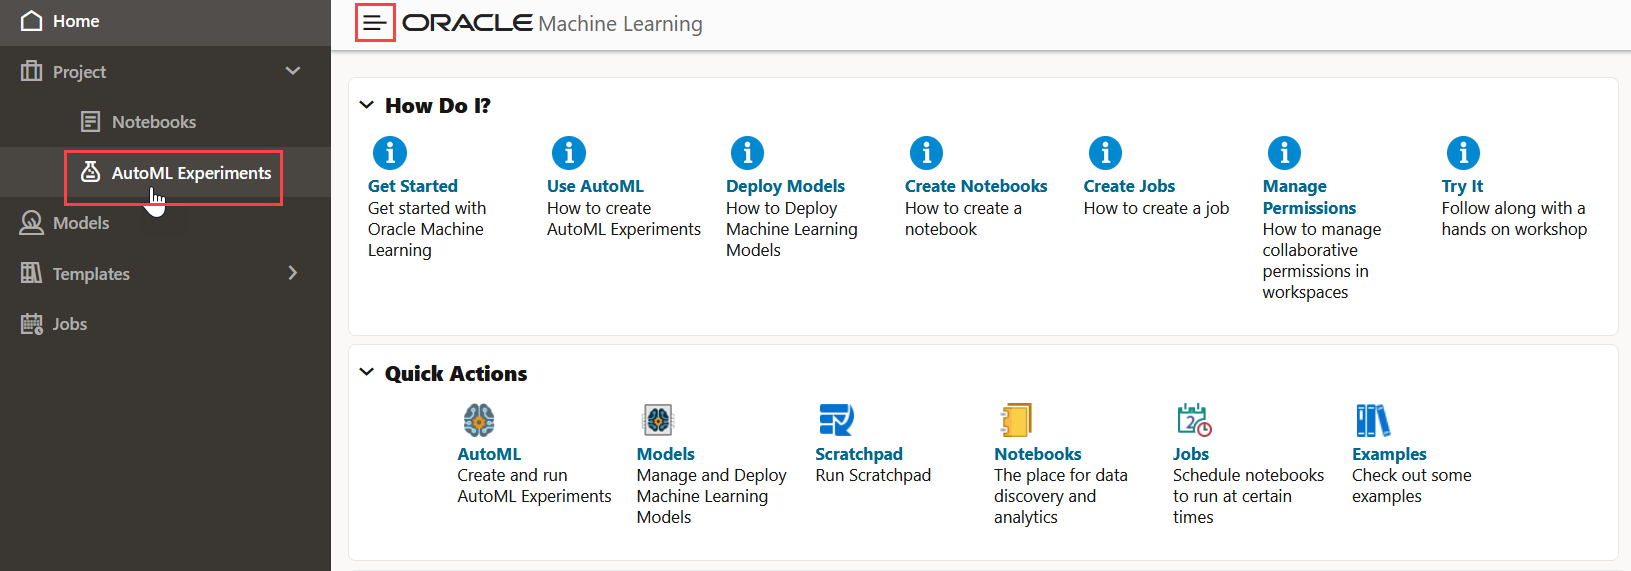
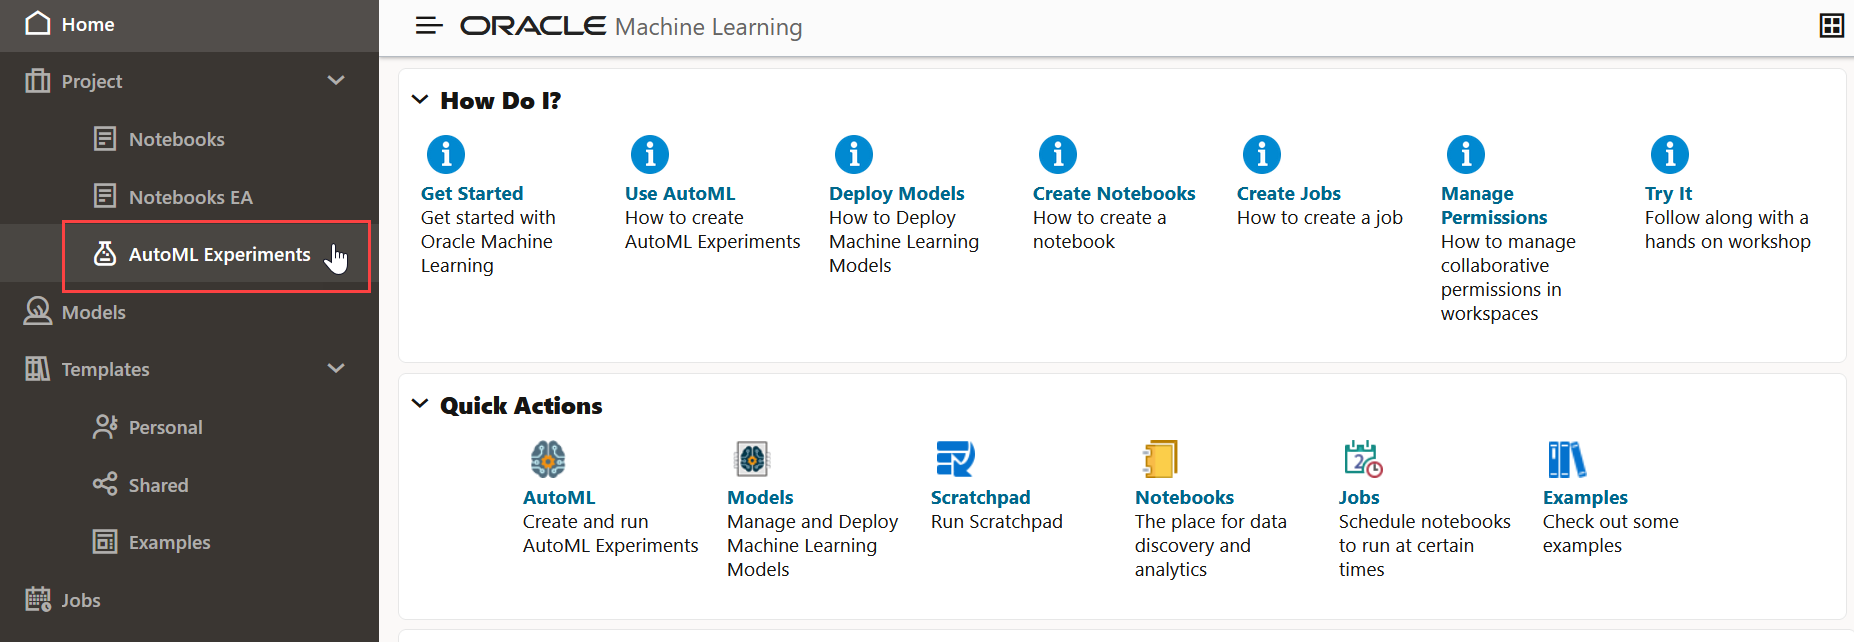
PR request for oml-fun-adb (#7401)  (#32)
oml-fun-adb (#7401) Self QA

Link to Notebook EA added.

diff --git a/oml-fun-on-adb/omlpy/omlpy.md b/oml-fun-on-adb/omlpy/omlpy.md
@@ -146,7 +146,7 @@ To use OML4Py, you must first import the `oml` module and the Pandas library. Us
 	</copy>
 	```
 	In this step, you are viewing a few rows from the SUPPLEMENTARY_DEMOGRAPHICS table using the overloaded `head()` function.
-	
+
 	![Top rows of DEMO.](images/rows-demo.png)
 
 ## Task 4: Explore the Data
@@ -232,7 +232,7 @@ In this step, you will create a `DEMO_DF` which is a new `oml.DataFrame` based o
 	![Top rows of DEMO_DF.](images/rows-demo-df.png)
 
 3. In this example, you are randomly splitting the `DEMO_DF` data with 60 percent of the records for the TRAIN data set and 40 percent for the TEST data set. The split method splits the data referenced by the `oml.DataFrame` proxy object `DEMO_DF` into two new `oml.DataFrame` proxy objects, TRAIN, and TEST.  
-   
+
    Furthermore the machine learning algorithms require the separation of the target column `Y` from the input columns `X`.  In this case the column `AFFINITY_CARD`, which indicates whether a person has accepted the offer (=1) or not (=0) in past marketing campaigns, is what we are trying to predict with the model for future campaigns, and it is used to further split the data.
 
 	```
@@ -274,18 +274,18 @@ Use the `oml.dt` class to build a Decision Tree model. You can build a model wit
 	The `oml.dt` class uses the Decision Tree algorithm for classification and a model object `dt_mod` is created with the default parameter settings.  The **fit** function builds the Decision Tree model according to the training data and parameter settings.
 
 
-	
+
 
 		Model Name: DT_CLAS_MODEL
- 
+
 		Model Owner: OMLUSER
- 
+
 		Algorithm Name: Decision Tree
- 
+
 		Mining Function: CLASSIFICATION
- 
+
 		Target: AFFINITY_CARD
- 
+
 		Settings:
     	                setting name            setting value
 		0                      ALGO_NAME       ALGO_DECISION_TREE
@@ -301,23 +301,23 @@ Use the `oml.dt` class to build a Decision Tree model. You can build a model wit
 		10        TREE_TERM_MINPCT_SPLIT                       .1
 		11         TREE_TERM_MINREC_NODE                       10
 		12        TREE_TERM_MINREC_SPLIT                       20
- 
+
 		Global Statistics:
   		attribute name  attribute value
 		0       NUM_ROWS             2725
- 
+
 		Attributes:
 		EDUCATION
 		HOME_THEATER_PACKAGE
-		HOUSEHOLD_SIZE	
+		HOUSEHOLD_SIZE
 		OCCUPATION
 		YRS_RESIDENCE
 		Y_BOX_GAMES
- 
+
 		Partition: NO
- 
+
 		Distributions:
- 
+
     	NODE_ID  TARGET_VALUE  TARGET_COUNT
 		0         0             0          2088
 		1         0             1           637
@@ -348,9 +348,9 @@ Use the `oml.dt` class to build a Decision Tree model. You can build a model wit
 		26       13             1             6
 		27       14             0           536
 		28       14             1            59
- 
+
 		Nodes:
- 
+
     	parent  node.id  row.count  prediction                                              split                                          surrogate                                        full.splits
 		0      0.0        1       1225           0                   (HOUSEHOLD_SIZE IN ("3" "4-5"))                          YRS_RESIDENCE >(3.5E+000))                    (HOUSEHOLD_SIZE IN ("3" "4-5"))
 		1      0.0        4       1500           0          (HOUSEHOLD_SIZE IN ("1" "2" "6-8" "9+"))                         YRS_RESIDENCE <=(3.5E+000))           (HOUSEHOLD_SIZE IN ("1" "2" "6-8" "9+"))
@@ -367,7 +367,7 @@ Use the `oml.dt` class to build a Decision Tree model. You can build a model wit
 		12     6.0       13        832           0                       (YRS_RESIDENCE <=(3.5E+000))                 HOME_THEATER_PACKAGE <=(5.0E-001))  (HOUSEHOLD_SIZE IN ("1" "2" "6-8" "9+")) AND (...
 		13     6.0       14        595           0                        (YRS_RESIDENCE >(3.5E+000))                  HOME_THEATER_PACKAGE >(5.0E-001))  (HOUSEHOLD_SIZE IN ("1" "2" "6-8" "9+")) AND (...
 		14     NaN        0       2725           0                                               None                                               None                                                  (
-	
+
 
 2. To specify model settings and build a Decision Tree model, run the following script :
 
@@ -424,11 +424,11 @@ To evaluate your model you need to score the test data using the model and then 
 	```
 
 2. To evaluate the model, we will pass a proxy `oml.Dataframe` containing predictions and the target columns to a new user-defined function named `evaluate_model` described below, that will produce typical model quality metrics.  
-   
-   For our classification example, you can evaluate your model using Confusion Matrix, Lift Chart, Gains Chart, and ROC curve chart. The Confusion Matrix displays the number of correct and incorrect predictions made with respect to the actual classification in the test data.  It is an **n**-by-**n** matrix where **n** is the number of classes. 
-   
-   A lift chart applies only to binary classifications requiring the designation of the positive class, and it measures the degree to which the predictions of a classification model are better than randomly generated predictions. 
-   
+
+   For our classification example, you can evaluate your model using Confusion Matrix, Lift Chart, Gains Chart, and ROC curve chart. The Confusion Matrix displays the number of correct and incorrect predictions made with respect to the actual classification in the test data.  It is an **n**-by-**n** matrix where **n** is the number of classes.
+
+   A lift chart applies only to binary classifications requiring the designation of the positive class, and it measures the degree to which the predictions of a classification model are better than randomly generated predictions.
+
    The ROC curve also applies to binary classification and requires the designation of the positive class. These are metrics for comparing predicted and actual target values in a classification model, and the area under this curve is another very standard measure of model quality known as AUC (Area Under the Curve).
 
 	Here is a custom script to generate the metrics and charts as described above. Run the below script:
@@ -804,18 +804,18 @@ You can save the python objects you create in one python session and load them i
 	```
 
 	The output is similar to the following:
-	
+
 	![Illustration of a dictionary object containing the models name and value.](images/loaded-dictionaryobject-datastore.png)
-	
-	Also, the boolean input **to\_globals** is set to True by default. 
-	
+
+	Also, the boolean input **to\_globals** is set to True by default.
+
 	If **to\_globals=True** then the `oml.ds.load` loads the python object to the global workspace. If **to\_globals=False**, then the `oml.ds.load()` function returns a dictionary object containing the object's name and value.
-	
+
 	To learn more about how to use datastores to store python objects click this [link](https://docs.oracle.com/en/database/oracle/machine-learning/oml4py/1/mlpug/save-python-objects-in-database.html#GUID-C02396D1-2B30-47A0-AE27-37B123E15710).
 
-In this example, you classified customers who are most likely to be positive responders to an Affinity Card loyal program. You built and applied a classification decision tree model using the Sales history (SH) schema data. 
+In this example, you classified customers who are most likely to be positive responders to an Affinity Card loyal program. You built and applied a classification decision tree model using the Sales history (SH) schema data.
 
-You were also able to successfully evaluate the quality of the model using various metrics, and identify the top attributes that explains each customer prediction.  You also learned how to store and retrieve Python objects from the OML Python Data Store. 
+You were also able to successfully evaluate the quality of the model using various metrics, and identify the top attributes that explains each customer prediction.  You also learned how to store and retrieve Python objects from the OML Python Data Store.
 You may now **proceed to the next lab**.
 
 ## Learn More
@@ -831,7 +831,7 @@ OML4Py enables data scientists to hand-off their user-defined Python functions t
 	1. Prepare the Demo data and then rank the classification algorithms from the set of algorithms supported by AutoML using automatic algorithm selection.
 	![The images shows how to prepare the demo data and rank the classification with the help of AutoML.](images/automl-algorithm-selections.png)
 	2. Identify the most relevant feature subset using automatic feature selection.
-	![It shows how AutoMl can be used for selection of relevant features.](images/automl-subset-feature-selection.png)
+	![It shows how AutoML can be used for selection of relevant features.](images/automl-subset-feature-selection.png)
 	3. Finally tune the hyperparameters for the selected classification algorithm and features using automatic model tuning.
 	![The image shows how to fine tune hyperparameters with help of AutoML](images/automl-hyperparameter-tuning.png)
 
@@ -841,4 +841,4 @@ OML4Py enables data scientists to hand-off their user-defined Python functions t
 
 * **Authors** - Sarika Surampudi, Senior User Assistance Developer, Oracle Database User Assistance Development; Dhanish Kumar, Member of Technical Staff, User Assistance Developer.
 * **Contributors** -  Mark Hornick, Senior Director, Data Science and Machine Learning; Sherry LaMonica, Consulting Member of Tech Staff, Machine Learning; Marcos Arancibia, Senior Principal Product Manager, Machine Learning.
-* **Last Updated By/Date** - Marcos Arancibia, March 2023
+* **Last Updated By/Date** - Moitreyee Hazarika, June 2023

diff --git a/oml-fun-on-adb/automl/automl.md b/oml-fun-on-adb/automl/automl.md
@@ -40,7 +40,7 @@ To access AutoML UI, you must sign into the Oracle Machine Learning User Interfa
 
 	![home page](images/homepage-automl.png)
 
-	Alternatively, you can click the hamburger icon ![hamburger icon](images/hamburger.png) on the top left corner of the home page to open the left navigation menu. Click **AutoML**. This opens the AutoML Experiments page.
+	Alternatively, you can click the hamburger icon ![hamburger icon](images/hamburger.png) on the top left corner of the home page to open the left navigation menu. Click **AutoML Experiments**. This opens the AutoML Experiments page.
 
 	![home page](images/hamburger-automl-homepage.png)
 
@@ -49,11 +49,11 @@ To access AutoML UI, you must sign into the Oracle Machine Learning User Interfa
 An Experiment is as a work unit that contains the definition of data source, prediction target, and prediction type along with optional settings. After an Experiment runs successfully, it presents you a list of machine learning models in the leader board. You can select any model for deployment, or use it to create a notebook based on the selected model.
 When creating an Experiment, you must define the data source and the target of the experiment.
 
-When creating an experiment, you must specify the data source and the target of the experiment. An AutoML experiment can process columns with data type ``VARCHAR2`` greater than 4K , ``CHAR``, ``CLOB``, ``BLOB``, and ``BFILE`` as text. Note that columns with data type ``VARCHAR2`` less than 4K are considered as categorical. 
+When creating an experiment, you must specify the data source and the target of the experiment. An AutoML experiment can process columns with data type ``VARCHAR2`` greater than 4K , ``CHAR``, ``CLOB``, ``BLOB``, and ``BFILE`` as text. Note that columns with data type ``VARCHAR2`` less than 4K are considered as categorical.
 
 To create an Experiment:
 
-1. Click **AutoML** on your Oracle Machine Learning home page. Alternatively, you can go to the left navigation menu at the upper left corner of the page and click AutoML. The AutoML Experiments page opens.
+1. Click **AutoML** on your Oracle Machine Learning home page. Alternatively, you can go to the left navigation menu at the upper left corner of the page and click **AutoML Experiments**. The AutoML Experiments page opens.
 
 	![home page](images/homepage-automl.png)
 
@@ -113,7 +113,7 @@ When an experiment starts running, the status is displayed in a progress bar. Wh
 
 The Leader Board displays the top performing models relative to the model metric selected along with the algorithm and accuracy. Here,  you will view the additional metrics Precision, Recall, ROC AUC for the models:
 
-14. Scroll down the Customer 360 experiments page to view the Leader Board section. The top three algorithms for this experiment are Naive Bayes, Random Forest and Support Vector Machine (Linear).
+14. Scroll down the Customer 360 experiments page to view the Leader Board section. The top three algorithms for this experiment are Naïve Bayes, Random Forest and Support Vector Machine (Linear).
 
 	>**Note:** Only when the experiment is completed, can you perform any of these actions listed here, including metrics 	selection.
 
@@ -135,7 +135,7 @@ The Leader Board displays the top performing models relative to the model metric
 
 17. Click on any row in the Leader Board to enable the options - **Deploy, Rename**, and **Create Notebook**. Note that these options are greyed out if you do not click on the rows.
 
-18. Click on the Naive Bayes model row (and not on the model), and then click **Rename**. In the Rename Model dialog, enter `NB_Customer360` to rename the auto generated model name for Naive Bayes. Click **OK**.  	
+18. Click on the Naïve Bayes model row (and not on the model), and then click **Rename**. In the Rename Model dialog, enter `NB_Customer360` to rename the auto generated model name for Naive Bayes. Click **OK**.  	
 
 	![Rename model](images/rename-model.png)
 
@@ -163,7 +163,7 @@ The Leader Board displays the top performing models relative to the model metric
 
 	![Go to Experiments page](images/goto_exp.png)
 
-	Alternatively, you can click the hamburger icon ![hamburger icon](images/hamburger.png) on the top left corner of the experiment page and click **AutoML** on the left navigation menu.
+	Alternatively, you can click the hamburger icon ![hamburger icon](images/hamburger.png) on the top left corner of the experiment page and click **AutoML Experiments** on the left navigation menu.
 
 ## Task 3: Deploy Top Model to Oracle Machine Learning Services
 
@@ -173,7 +173,7 @@ When you deploy a model using the Oracle Machine Learning AutoML UI, you create 
 
 To deploy a model:  
 
-1. Go to the AutoML Experiments page by clicking the hamburger icon on the top left corner of the page. Click **AutoML** on the left navigation menu.  
+1. Go to the AutoML Experiments page by clicking the hamburger icon on the top left corner of the page. Click **AutoML Experiments** on the left navigation menu.  
 
 	![home page](images/hamburger-gen.png)
 
@@ -207,7 +207,7 @@ To deploy a model:
 
 	![Deploy Model option in Leader Board](images/model-deployed-message.png)
 
-This completes the task of deploying the top model Naive Bayes to Oracle Machine Learning Services.
+This completes the task of deploying the top model Naïve Bayes to Oracle Machine Learning Services.
 
 ## Task 4: View Oracle Machine Learning Models with Deployed Metadata and REST Endpoint
 
@@ -239,7 +239,7 @@ This completes the task of viewing the metadata of the deployed model, and its e
 
 You can create notebooks based on the top models produced in the experiment. This provides the code to build a model with the same settings for the selected model. This option is helpful if you want to use the code to re-create a similar machine learning model. To create a notebook:
 
-1. Click the hamburger icon ![hamburger icon](images/hamburger.png) on the top left corner of your page to open the left navigation menu, and click **AutoML**.
+1. Click the hamburger icon ![hamburger icon](images/hamburger.png) on the top left corner of your page to open the left navigation menu, and click **AutoML Experiments**.
 
 	![Experiments page](images/model-to-exp.png)
 
@@ -247,7 +247,7 @@ You can create notebooks based on the top models produced in the experiment. Thi
 
 	![Experiments page](images/open-customers-360.png)
 
-2. Scroll down to the Leader Board, click on the Naive Bayes model row. Clicking on a model row enables all the Leader Board options - Deploy, Rename, Create Notebooks, and Metrics. Click **Create Notebook**. The Create Notebook dialog opens.
+2. Scroll down to the Leader Board, click on the Naïve Bayes model row. Clicking on a model row enables all the Leader Board options - Deploy, Rename, Create Notebooks, and Metrics. Click **Create Notebook**. The Create Notebook dialog opens.
 
  	![Create Notebook option in Leader Board](images/create-notebook-lb.png)
 
@@ -273,9 +273,9 @@ To view the generated notebook Customer 360:
 
 2. The Notebooks page opens with all the notebooks listed in it. Click the **Customer 360 NB (1)** notebook to open it.
 
- 	<if type="livelabs"> ![Generated Notebook](images/notebooks-listed-final.png) </if>
+ 	<if type="livelabs"> ![Generated Notebook](images/notebooks-list-livelabs.png) </if>
 
-	<if type="freetier"> ![Generated Notebook](images/notebooks-5.png) </if>
+	<if type="freetier"> ![Generated Notebook](images/notebooks-list-freetier.png) </if>
 
 3. The generated notebook _Customer 360 NB (1)_  opens in the notebook editor. Click the gear icon on the upper right corner of the notebook to view and set the interpreter binding order.
 
@@ -327,4 +327,4 @@ You may now **proceed to the next lab**.
 
 * **Author** - Moitreyee Hazarika, Principal User Assistance Developer, Database User Assistance Development
 * **Contributors** -  Mark Hornick, Senior Director, Data Science and Machine Learning; Marcos Arancibia, Senior Principal Product Manager, Machine Learning; Sherry LaMonica, Consulting Member of Tech Staff, Machine Learning
-* **Last Updated By/Date** - Marcos Arancibia, March 2023
+* **Last Updated By/Date** - Moitreyee Hazarika, June 2023

diff --git a/oml-fun-on-adb/oml-notebooks/oml-notebooks.md b/oml-fun-on-adb/oml-notebooks/oml-notebooks.md
@@ -62,11 +62,11 @@ A notebook is a web-based interface for data analysis, data discovery, data visu
 
    ![Launch Workshop](images/launch-workshop.png)
 
-2. On the **Get Started - LiveLabs login** page, click **View Login Info** at the top left. 
+2. On the **Get Started - LiveLabs login** page, click **View Login Info** at the top left.
 
 	![ADB in OCI](images/get-started-page-livelabs.png)
 
-3. In the panel that opens with the **Reservation Information**, click at the bottom of the panel on the **OML Notebooks** link. 
+3. In the panel that opens with the **Reservation Information**, click at the bottom of the panel on the **OML Notebooks** link.
 
 	![ADB in OCI](images/livelabs-reservation-info.png)
 
@@ -86,6 +86,7 @@ To create a notebook:
 1. On the Oracle Machine Learning home page, click **Notebooks**. The Notebooks page opens. Alternatively, you can click the hamburger icon ![hamburger icon](images/hamburger.png) on the top left corner of the home page to open the left navigation menu. Click **Notebooks**.
 
 	![Notebooks option in hamburger](images/hamburger-notebooks.png)
+>> Note: Observe the new entry ** Notebooks EA** on the left navigation menu. To learn how to use Oracle Machine Learning Notebooks Early Adopter - an enhanced web-based notebook platform, refer to [Get Started with Notebooks Early Adopter](https://docs.oracle.com/en/database/oracle/machine-learning/oml-notebooks/omlug/get-started-notebooks-ea-data-analysis-and-data-visualization.html#GUID-B309C607-2232-43E2-B4A1-655DB295B90B).
 
 2. On the Notebooks page, click **Create**. The Create Notebook dialog opens.
 
@@ -315,7 +316,7 @@ This step demonstrates how to create the OML4Py Classification notebook based on
 
 	![Create Classification DT notebook from example template](images/create-notebook-classification.png)
 
-4. Once the notebook is created, the message _Notebook "OML4PY Classification DT (1)" created in project "OMLUSER Project"_ is displayed, as shown in the screenshot. The notebook is now available in the Notebooks page.
+4. Once the notebook is created, the message _Notebook "OML4PY Classification DT (1)" created in project "OMLUSER Project"_ is displayed, as shown in the screenshot. The notebook is now available on the Notebooks page. You may also click **Open Notebook** in the message dialog to open the notebook directly from here.
 
 	![Create notebook message](images/notebook-created-message.png)
 
@@ -349,7 +350,7 @@ These steps demonstrate how to create the Time Series notebook based on the Exam
 
 	![Create Time Series notebook from example template](images/create-notebook-time-series.png)
 
-10. Once the notebook is created, the message _Notebook "OML4SQL Time Series ESM (1)" created in project "OMLUSER Project"_ is displayed. The notebook is now available in the Notebooks page.
+10. Once the notebook is created, the message _Notebook "OML4SQL Time Series ESM (1)" created in project "OMLUSER Project"_ is displayed. The notebook is now available on the Notebooks page. You may also click **Open Notebook** in the message dialog to open the notebook directly from here.
 
 	![Time Series notebook message](images/esm-notebook-message.png)
 
@@ -477,4 +478,4 @@ This completes the task of creating a job. You may now **proceed to the next lab
 
 * **Author** -  Moitreyee Hazarika, Principal User Assistance Developer, Database User Assistance Development
 * **Contributors** -   Mark Hornick, Senior Director, Data Science and Machine Learning; Marcos Arancibia Coddou, Product Manager, Oracle Data Science; Sherry LaMonica, Consulting Member of Tech Staff, Machine Learning
-* **Last Updated By/Date** - Marcos Arancibia, March 2023
+* **Last Updated By/Date** - Moitreyee Hazarika, June 2023

diff --git a/oml-fun-on-adb/omlserv/omlserv.md b/oml-fun-on-adb/omlserv/omlserv.md
@@ -58,9 +58,11 @@ This lab assumes you have:
    Here is the syntax:
 
      ```
+     <copy>
      curl -X POST --header 'Content-Type: application/json' --header 'Accept: application/json'\
      -d '{"grant_type":"password", "username":"'${oml_username}'", "password":"'${oml_password}'"}'\
      "<OML server URL>/omlusers/api/oauth2/v1/token"
+     </copy>
      ```
 
    In the syntax above, OML server URL is the Autonomous Database URL and points to the region where the Autonomous Database instance resides. The URL also contains the database name and tenancy ID. You can obtain this URL information from **Oracle Machine Learning RESTful Services** on the Database Actions page. To access Database Actions, click **Database Actions** on your Oracle ADB instance details page.
@@ -88,8 +90,8 @@ This lab assumes you have:
 
      * OMLUSER is your OML user name.
      * AAbbcc123456 is your OML password.
-     * omlserver url is the URL that you copied from the ADB console, without the /omlusers/ segment in it. 
-     
+     * omlserver url is the URL that you copied from the ADB console, without the /omlusers/ segment in it.
+
    An example of omlserver URL is https://aabbcc123456xyz-omllabs.adb.us-ashburn-1.oraclecloudapps.com. In this URL:
      * `aabbcc123456xyz` is the tenancy ID (not to be confused with the very long tenancy OCID)
      * `omllabs` is the database name, and
@@ -425,11 +427,12 @@ This lab assumes you have:
    Here's the syntax:
 
     ```
+    <copy>
     curl -X POST "${omlserver}/omlmod/v1/deployment/${model_URI}/score" \
     --header "Authorization: Bearer ${token}" \
     --header 'Content-Type: application/json' \
     -d '{"topNdetails":n,"inputRecords":[{"XXX":value,"YYY":value}]}'| jq
-
+    </copy>
     ```
 
   In the syntax above, the parameter `topNdetails` is optional. It fetches the top n prediction details for the record you are scoring. Prediction details refer to the attributes or features that impact a prediction. In the following example,  you specify the model URI `nb_cust360` and a valid token generated in Task 1. The model was built using the Supplementary Demographics data set. To score with a single record, for XXX use `YRS_RESIDENCE` with the value of 10 and for YYY  use `Y_BOX_GAMES` with a value of 0. You want to predict the probability that the person associated with this record will purchase the affinity card.
@@ -536,6 +539,7 @@ This lab assumes you have:
 3. In this task, use Oracle's proprietary Cognitive Text functionality. This functionality provides endpoints to score a string of text to obtain information such as most relevant keywords, topics, text summary, sentiment, similarity to another text string and text features. The supported languages for Cognitive Text include English (America), Spanish, French and Italian. In this step, pass a text string to obtain keywords and its summary using the relevant end points. Here's the syntax for using the keywords endpoint:
 
     ```
+    <copy>
     curl -X POST "${omlserver}/omlmod/v1/cognitive-text/keywords" \
     --header 'Content-Type: application/json' \
     --header "Authorization: Bearer ${token}" \
@@ -543,6 +547,7 @@ This lab assumes you have:
          "topN":<n=number of top keywords to return>,
          "textList":["<text to score>"]
             }' | jq
+    </copy>   
 
     ```
 

diff --git a/oml-fun-on-adb/get-started-livelabs/get-started-livelabs.md b/oml-fun-on-adb/get-started-livelabs/get-started-livelabs.md
@@ -48,7 +48,7 @@ To provision an Oracle Autonomous Database:
 
 	 ![Autonomous Database Workload type](images/workload-type.png)
 
-5. For Deployment, select **Shared Infrastructure**.
+5. For Deployment, select **Serverless**.
 
 	 ![Autonomous Database deployment type](images/deployment-type.png)
 
@@ -103,7 +103,7 @@ To create a user account:
 	![Oracle Autonomous Data Warehouse](images/database-actions.png)
 
 4. The Oracle Database Actions Launchpad page opens in a separate tab. Scroll down to the Administration section and click **DATABASE USERS**.
-   
+
 	> **Note:** You might be asked for a user and password at this point, depending on your browser. If asked, make sure to enter **ADMIN** and the password you gave the administrator user in Task 1, Step 7.
 
 	![Oracle Autonomous Data Warehouse](images/admin-db-users.png)
@@ -211,7 +211,7 @@ To create the table:
 
 	![Script to view Customers360 table](images/script-view-customers360.png)
 
-This completes the task of creating the CUSTOMERS360 table.
+This completes the task of creating the CUSTOMERS360 table. You may now **proceed to the next lab.**
 
 ## Learn More
 
@@ -222,4 +222,4 @@ This completes the task of creating the CUSTOMERS360 table.
 
 * **Author** - Moitreyee Hazarika, Principal User Assistance Developer, Database User Assistance Development
 * **Contributors** -  Mark Hornick, Senior Director, Data Science and Machine Learning; Marcos Arancibia Coddou, Product Manager, Oracle Data Science; Sherry LaMonica, Principal Member of Tech Staff, Advanced Analytics, Machine Learning
-* **Last Updated By/Date** - Marcos Arancibia, March 2023
+* **Last Updated By/Date** - Moitreyee Hazarika, June 2023

diff --git a/oml-fun-on-adb/introduction/introduction.md b/oml-fun-on-adb/introduction/introduction.md
@@ -52,4 +52,4 @@ This workshop assumes you have:
 
 * **Authors** - Moitreyee Hazarika, Principal User Assistance Developer; Sarika Surampudi, Principal User Assistance Developer; Dhanish Kumar, Member Technical Staff; Suresh Rajan, Senior Manager, Oracle Database User Assistance Development
 * **Contributors** -  Mark Hornick, Senior Director, Data Science and Oracle Machine Learning Product Management; Sherry LaMonica, Consulting Member of Technical Staff, Oracle Machine Learning; Marcos Arancibia Coddou, Senior Principal Product Manager, Machine Learning
-* **Last Updated By/Date** - Dhanish Kumar, December 2022
+* **Last Updated By/Date** - Moitreyee Hazarika, June 2023
